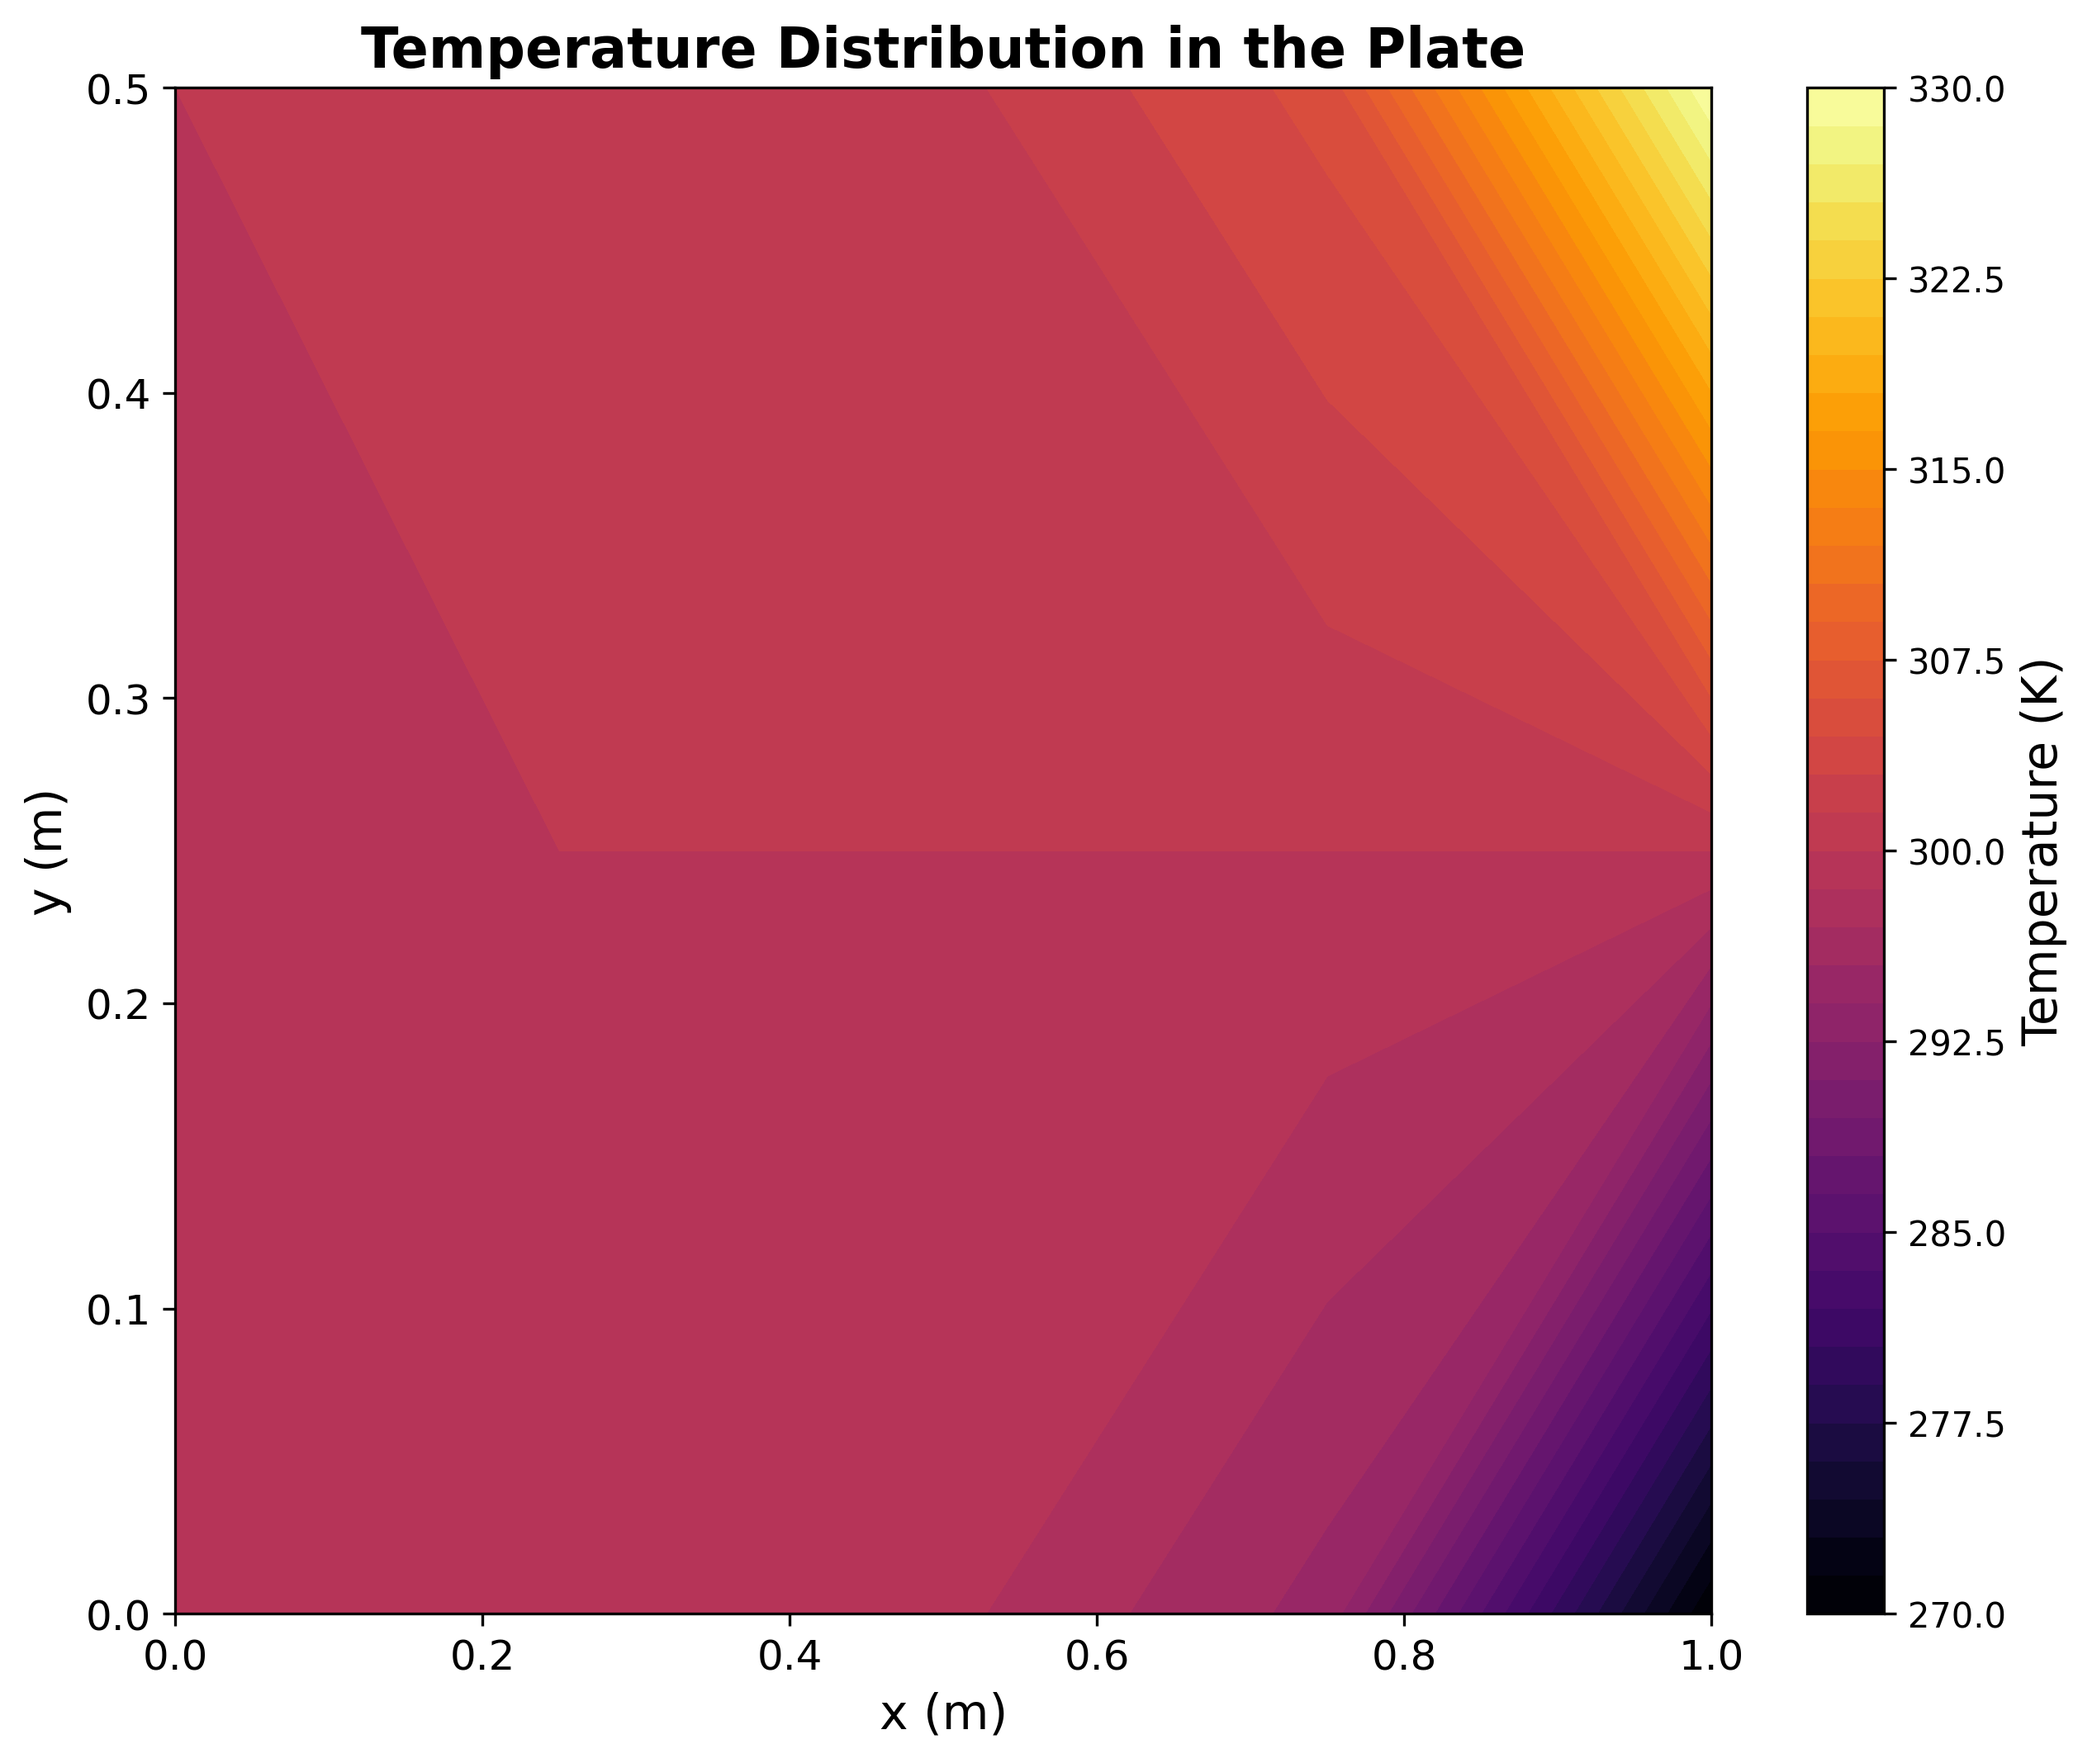
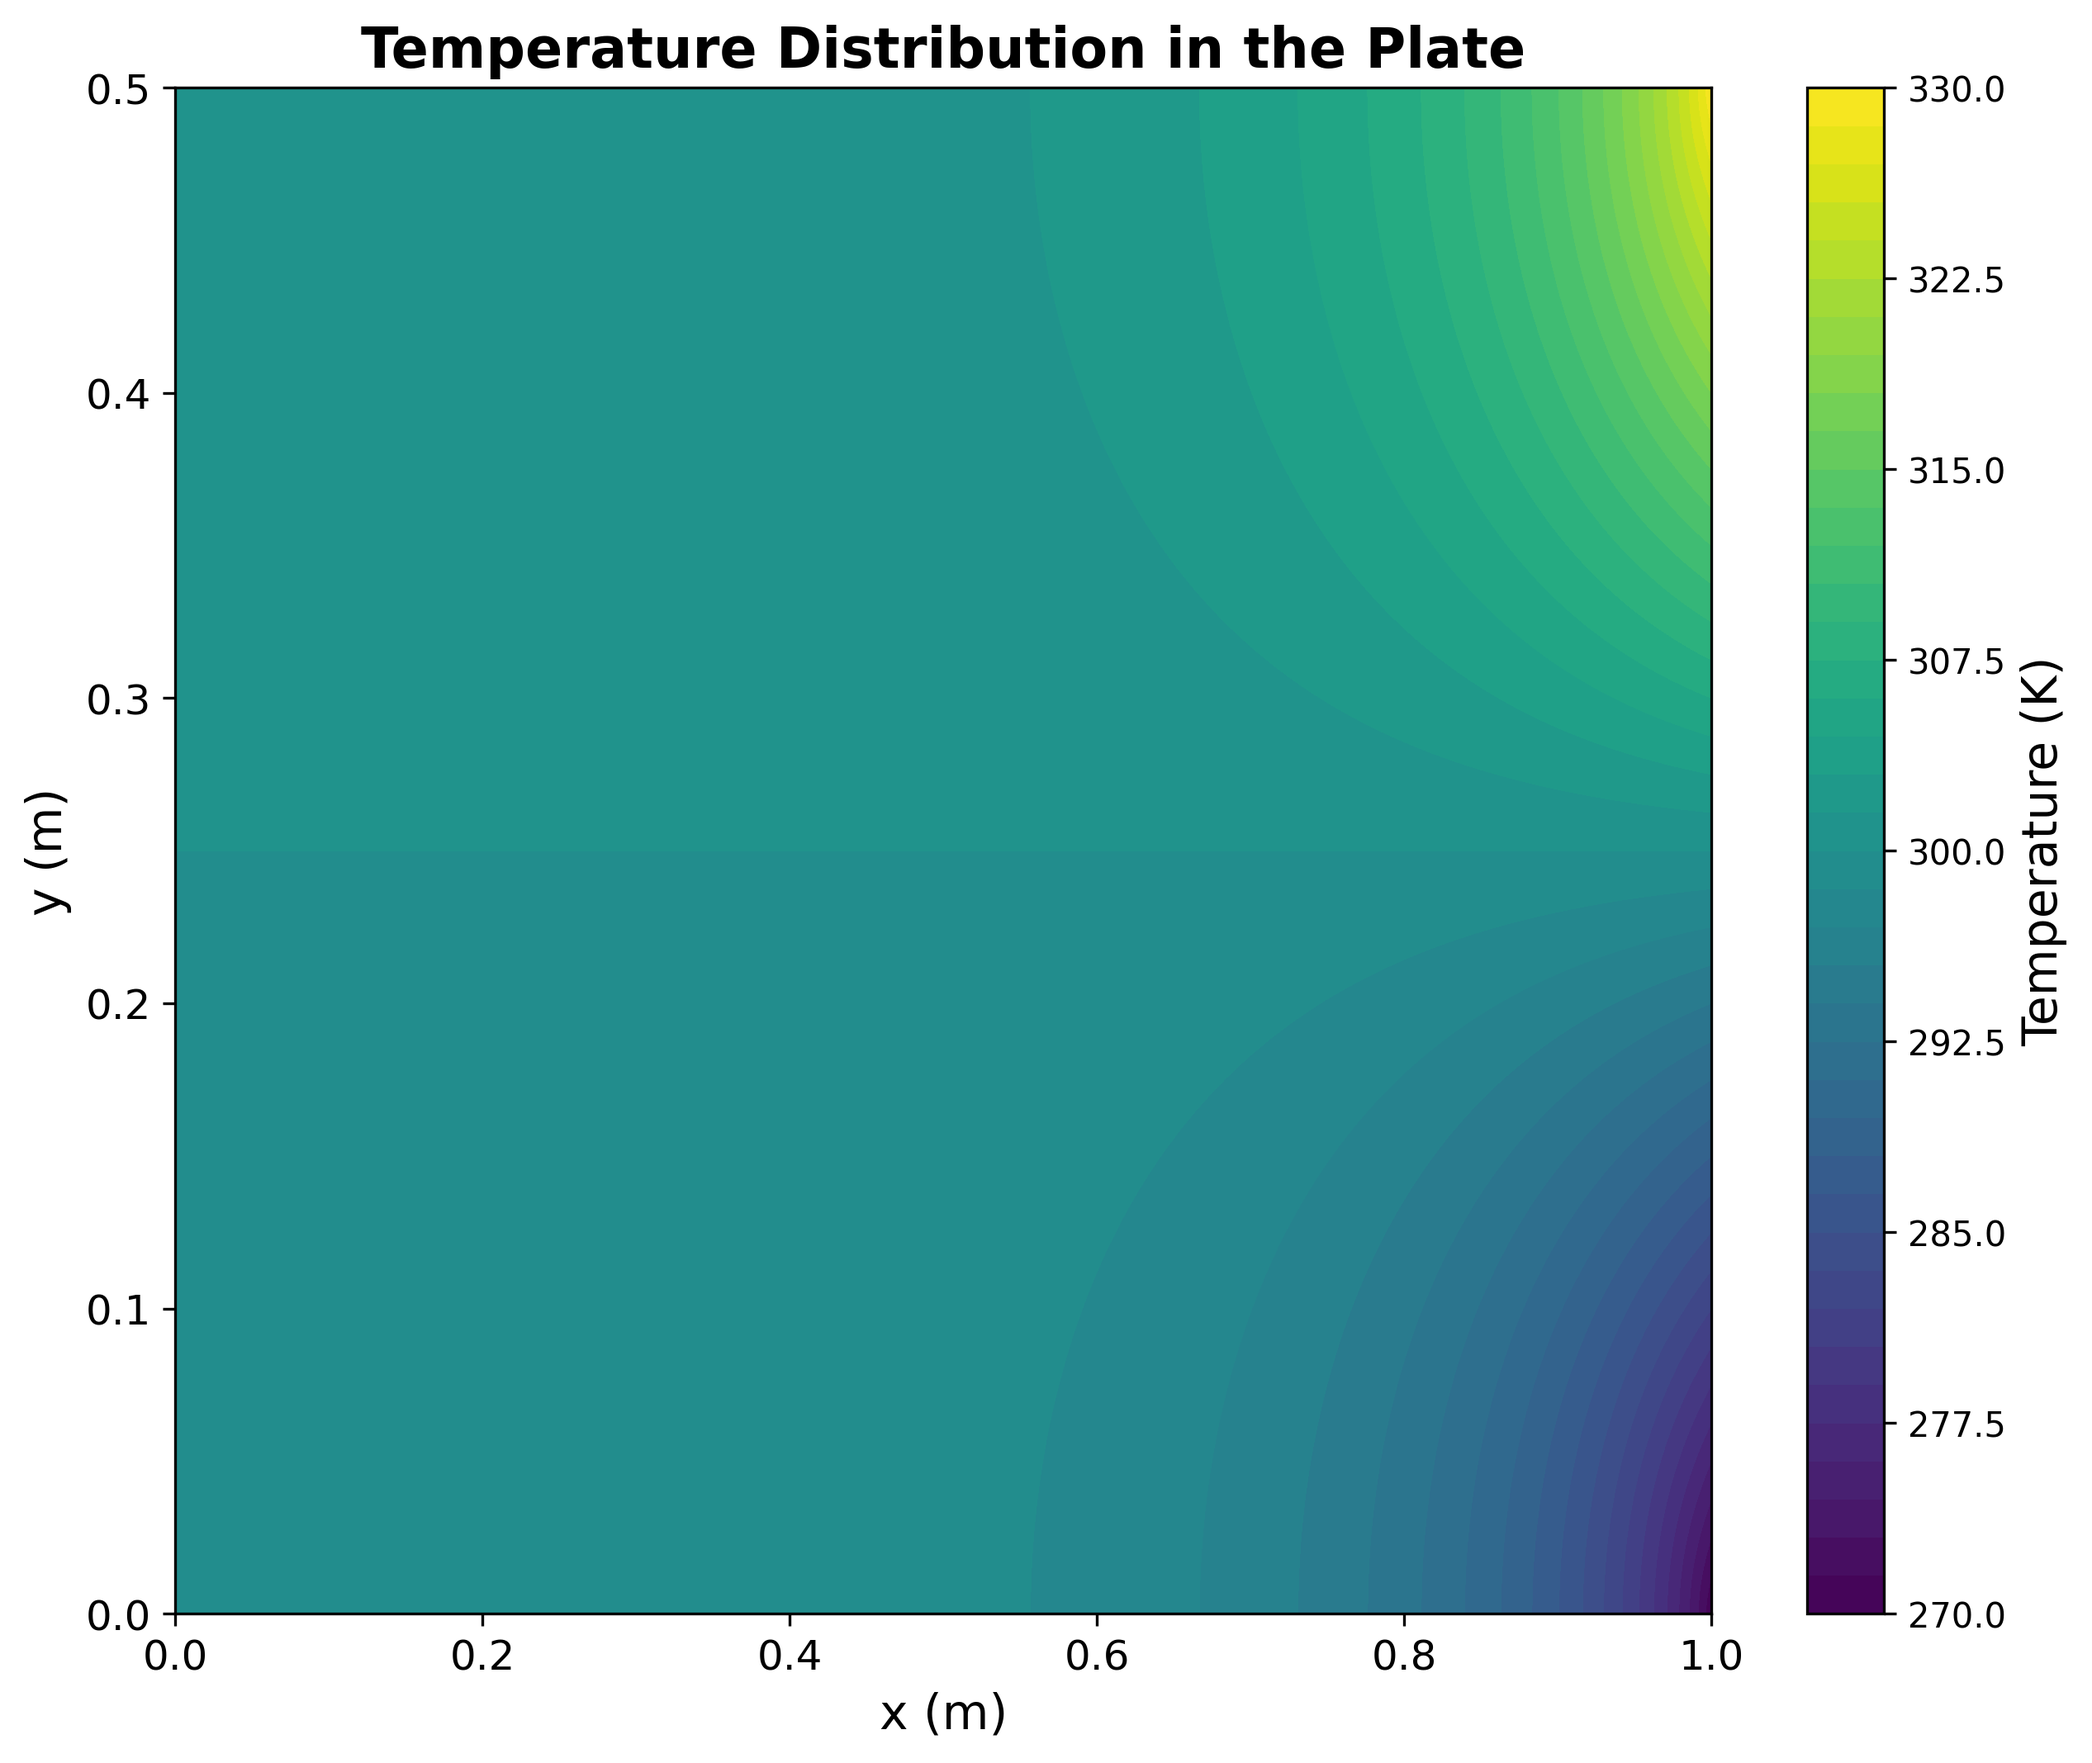
Add plotting functionality for temperature data analysis
- Implemented functions to load, reshape, and plot temperature data from .dat files.
- Added contour plot generation for numerical solutions.
- Created error norm plots in log-log scale.
- Developed line profile plots comparing numerical and analytical solutions at specified grid sizes.
- Ensured plots are saved in a dedicated directory with consistent formatting.

diff --git a/hw1/q4_plotting.py b/hw1/q4_plotting.py
@@ -1,0 +1,174 @@
+import numpy as np
+import matplotlib.pyplot as plt
+import os
+
+def ensure_plots_dir():
+    plots_dir = 'plots'
+    if not os.path.exists(plots_dir):
+        os.makedirs(plots_dir)
+        print(f"Created '{plots_dir}' directory")
+    return plots_dir
+
+def save_figure(fig, filename, plots_dir='plots', dpi=200):
+    """Helper function to save figures with consistent settings."""
+    filepath = os.path.join(plots_dir, filename)
+    fig.savefig(filepath, dpi=dpi, bbox_inches='tight')
+    plt.close(fig)
+    print(f"Plot saved as '{filepath}'")
+
+def load_data(filename):
+    data = np.loadtxt(filename)
+    
+    x = data[:, 0]
+    y = data[:, 1]
+    T = data[:, 2]
+    Tex = data[:, 3]
+    
+    return x, y, T, Tex
+
+def reshape_data(x, y, T, Tex, nx, ny):
+    x2d = x.reshape(nx, ny)
+    y2d = y.reshape(nx, ny)
+    T2d = T.reshape(nx, ny)
+    Tex2d = Tex.reshape(nx, ny)
+    
+    return x2d, y2d, T2d, Tex2d
+
+def plot_contour(filename):
+    if not os.path.exists(filename):
+        print(f"Error: File '{filename}' not found!")
+        return
+    
+    plots_dir = ensure_plots_dir()
+    
+    basename = os.path.basename(filename)
+    parts = basename.replace('.dat', '').split('_')
+    nx = int(parts[2])
+    ny = int(parts[3])
+    
+    x, y, T, Tex = load_data(filename)
+    X, Y, T_2d, Tex_2d = reshape_data(x, y, T, Tex, nx, ny)
+    
+    fig1, ax1 = plt.subplots(figsize=(10, 8))
+    
+    cs1 = ax1.contourf(X, Y, T_2d, levels=20, cmap='viridis')
+    ax1.contour(X, Y, T_2d, levels=10, colors='black', linewidths=0.5, alpha=0.3)
+    ax1.set_xlabel('x (m)')
+    ax1.set_ylabel('y (m)')
+    ax1.set_title('Numerical Solution (T)')
+    fig1.colorbar(cs1, ax=ax1)
+    
+    plt.tight_layout()
+    save_figure(fig1, 'contour_numerical.png', plots_dir, dpi=150)
+    
+def plot_error(filename):
+    
+    if not os.path.exists(filename):
+        print(f"Error: File '{filename}' not found!")
+        return
+
+    plots_dir = ensure_plots_dir()
+
+    data = np.loadtxt(filename)
+    if data.ndim == 1:
+        data = data.reshape(1, -1)
+
+    nx = data[:, 0]
+    l2err = data[:, 2]
+
+    fig, ax = plt.subplots(figsize=(8, 6))
+    ax.loglog(nx, l2err, marker='o', linewidth=1.5)
+    ax.set_xlabel('Grid points (nx)')
+    ax.set_ylabel('L2 Error Norm')
+    ax.set_title('Error Norm vs Grid Points (log Scale)')
+    ax.grid(True, which='both', linestyle='--', alpha=0.4)
+    
+    plt.tight_layout()
+    save_figure(fig, 'error_norm_log_log.png', plots_dir, dpi=150)
+
+
+def plot_line_profiles_with_analytical_solution(grid_sizes, output_dir='output', iter_stamp=0, x_target=0.9, y_target=0.4):
+    plots_dir = ensure_plots_dir()
+    datasets = []
+
+    for nx in grid_sizes:
+        nx = int(nx)
+        ny = (nx + 1) // 2
+        fname = f"T_xy_{nx:03d}_{ny:03d}_{int(iter_stamp):04d}.dat"
+        fpath = os.path.join(output_dir, fname)
+
+        if not os.path.exists(fpath):
+            print(f"Warning: File not found, skipping: {fpath}")
+            continue
+
+        x, y, t_num, t_ex = load_data(fpath)
+        x2d, y2d, t2d, tex2d = reshape_data(x, y, t_num, t_ex, nx, ny)
+
+        datasets.append({
+            'nx': nx,
+            'ny': ny,
+            'x1d': x2d[:, 0],
+            'y1d': y2d[0, :],
+            'T2d': t2d,
+            'Tex2d': tex2d,
+        })
+
+    if len(datasets) == 0:
+        print('No valid data files found for provided grid sizes.')
+        return
+
+    datasets.sort(key=lambda d: d['nx'])
+    ref = datasets[-1]
+
+    # -------- Plot 1: T vs y at x = x_target --------
+    fig_y, ax_y = plt.subplots(figsize=(9, 6))
+
+    for d in datasets:
+        if d!=ref:
+            ix = int(np.argmin(np.abs(d['x1d'] - x_target)))
+            ax_y.plot(d['y1d'], d['T2d'][ix, :], linewidth=2.5,
+                    label=f"Grid size {d['nx']}x{d['ny']}")
+
+    ix_ref = int(np.argmin(np.abs(ref['x1d'] - x_target)))
+    ax_y.plot(ref['y1d'], ref['Tex2d'][ix_ref, :], '--', linewidth=3.0, label='Exact (Tex)',color = "#000000")
+    ax_y.set_xlabel('y (m)')
+    ax_y.set_ylabel('Temperature (k)')
+
+    x_tag = str(x_target).replace('.', 'p')
+    ax_y.set_title(f'Temperature vs y at x = {x_target:.1f}')
+    ax_y.grid(True, alpha=0.3)
+    ax_y.legend()
+    fig_y.tight_layout()
+    save_figure(fig_y, f'line_T_vs_y_x{x_tag}.png', plots_dir)
+
+    # -------- Plot 2: T vs x at y = y_target --------
+    fig_x, ax_x = plt.subplots(figsize=(9, 6))
+
+    for d in datasets:
+        if d != ref:
+            jy = int(np.argmin(np.abs(d['y1d'] - y_target)))
+            ax_x.plot(d['x1d'], d['T2d'][:, jy], linewidth=2.5,
+                    label=f"Grid size {d['nx']}x{d['ny']}")
+
+    jy_ref = int(np.argmin(np.abs(ref['y1d'] - y_target)))
+    ax_x.plot(ref['x1d'], ref['Tex2d'][:, jy_ref], '--', linewidth=3.0, label='Exact (Tex)',color = "#000000")
+    ax_x.set_xlabel('x (m)')
+    ax_x.set_ylabel('Temperature (k)')
+    y_tag = str(y_target).replace('.', 'p')
+    ax_x.set_title(f'Temperature vs x at y = {y_target:.1f}')
+    ax_x.grid(True, alpha=0.3)
+    ax_x.legend()
+    fig_x.tight_layout()
+    save_figure(fig_x, f'line_T_vs_x_y{y_tag}.png', plots_dir)
+
+
+if __name__ == "__main__":
+    grid_sizes = [5, 9, 17, 65, 257, 513]
+    x_target = 0.9
+    y_target = 0.4
+    dat_file = "output/T_xy_513_257_0000.dat"
+    error_file = "output/error.dat"
+    plot_contour(dat_file)
+    plot_error(error_file)
+
+    plot_line_profiles_with_analytical_solution(grid_sizes, x_target=x_target, y_target=y_target)

diff --git a/hw1/q3.py b/hw1/q3.py
@@ -18,57 +18,62 @@ def u(x,y,a,b,N,T0):
 
 def Plot_contour(X,Y,u_res):
     plt.figure(figsize=(10, 8))
-    plt.contourf(X, Y, u_res, levels=50, cmap='inferno')
+    plt.contourf(X, Y, u_res, levels=50, cmap='viridis')
     cbar = plt.colorbar(label='Temperature (K)')
     cbar.set_label('Temperature (K)', fontsize=14)
     plt.title('Temperature Distribution in the Plate', fontsize=16, fontweight='bold')
     plt.xlabel('x (m)', fontsize=14)
     plt.ylabel('y (m)', fontsize=14)
     plt.tick_params(labelsize=12)
-    plt.savefig("plots/contour_analytical.png", dpi=300, bbox_inches='tight')
+    analytical_plot = "plots/contour_analytical.png"
+    plt.savefig(analytical_plot, dpi=300, bbox_inches='tight')
+    print(f"Analytical solution plot saved as '{analytical_plot}'")
     plt.close()
 
 def plot_yprofile(x_val,y,a,b,N,T0):
     plt.figure(figsize=(12, 8))
     for x_i in x_val:
         u_xi = u(x_i,y,a,b,N,T0)
-        plt.plot(y, u_xi, label=f'x={x_i:.1f} m', linewidth=2.5)
+        plt.plot(y, u_xi, label=f'x={x_i} m', linewidth=2.5)
     plt.title('Temperature Profile Along y-axis for Different x Values', fontsize=16, fontweight='bold')
     plt.xlabel('y (m)', fontsize=14)
     plt.grid(alpha=0.3, linewidth=1)
     plt.ylabel('Temperature (K)', fontsize=14)
     plt.legend(fontsize=12, loc='best')
     plt.tick_params(labelsize=12)
-    plt.savefig("plots/y_profile.png", dpi=300, bbox_inches='tight')
+    y_profile_plot = "plots/y_profile.png"
+    plt.savefig(y_profile_plot, dpi=300, bbox_inches='tight')
+    print(f"Y-profile plot saved as '{y_profile_plot}'")
     plt.close()
 
 def plot_xprofile(y_val,x,a,b,N,T0):
     plt.figure(figsize=(12, 8))
     for y_i in y_val:
         u_yi = u(x,y_i,a,b,N,T0)
-        plt.plot(x, u_yi, label=f'y={y_i:.1f} m', linewidth=2.5)
+        plt.plot(x, u_yi, label=f'y={y_i} m', linewidth=2.5)
     plt.title('Temperature Profile Along x-axis for Different y Values', fontsize=16, fontweight='bold')
     plt.xlabel('x (m)', fontsize=14)
     plt.grid(alpha=0.3, linewidth=1)
     plt.ylabel('Temperature (K)', fontsize=14)
     plt.legend(fontsize=12, loc='best')
     plt.tick_params(labelsize=12)
-    plt.savefig("plots/x_profile.png", dpi=300, bbox_inches='tight')
+    x_profile_plot = "plots/x_profile.png"
+    plt.savefig(x_profile_plot, dpi=300, bbox_inches='tight')
+    print(f"X-profile plot saved as '{x_profile_plot}'")
     plt.close()
 
 N = 50
 a = 1
 b = 0.5
 T0 = 300
-x = np.linspace(0, a, 5)
-y = np.linspace(0, b, 3)
+nx = 513
+ny = 257
+x = np.linspace(0, a, nx)
+y = np.linspace(0, b, ny)
 X, Y = np.meshgrid(x, y)
 u_res = u(X, Y, a, b, N, T0)
 
-#debugging print statements
-# for i in range(len(x)):
-#     for j in range(len(y)):
-#         print(f"x: {x[i]:.2f} m, y: {y[j]:.2f} m, u: {u_res[j,i]:.2f} K")
+
 
 Plot_contour(X,Y,u_res)
 x_val = a*np.array([0.1,0.3,0.5,0.7,0.9],dtype=float)
